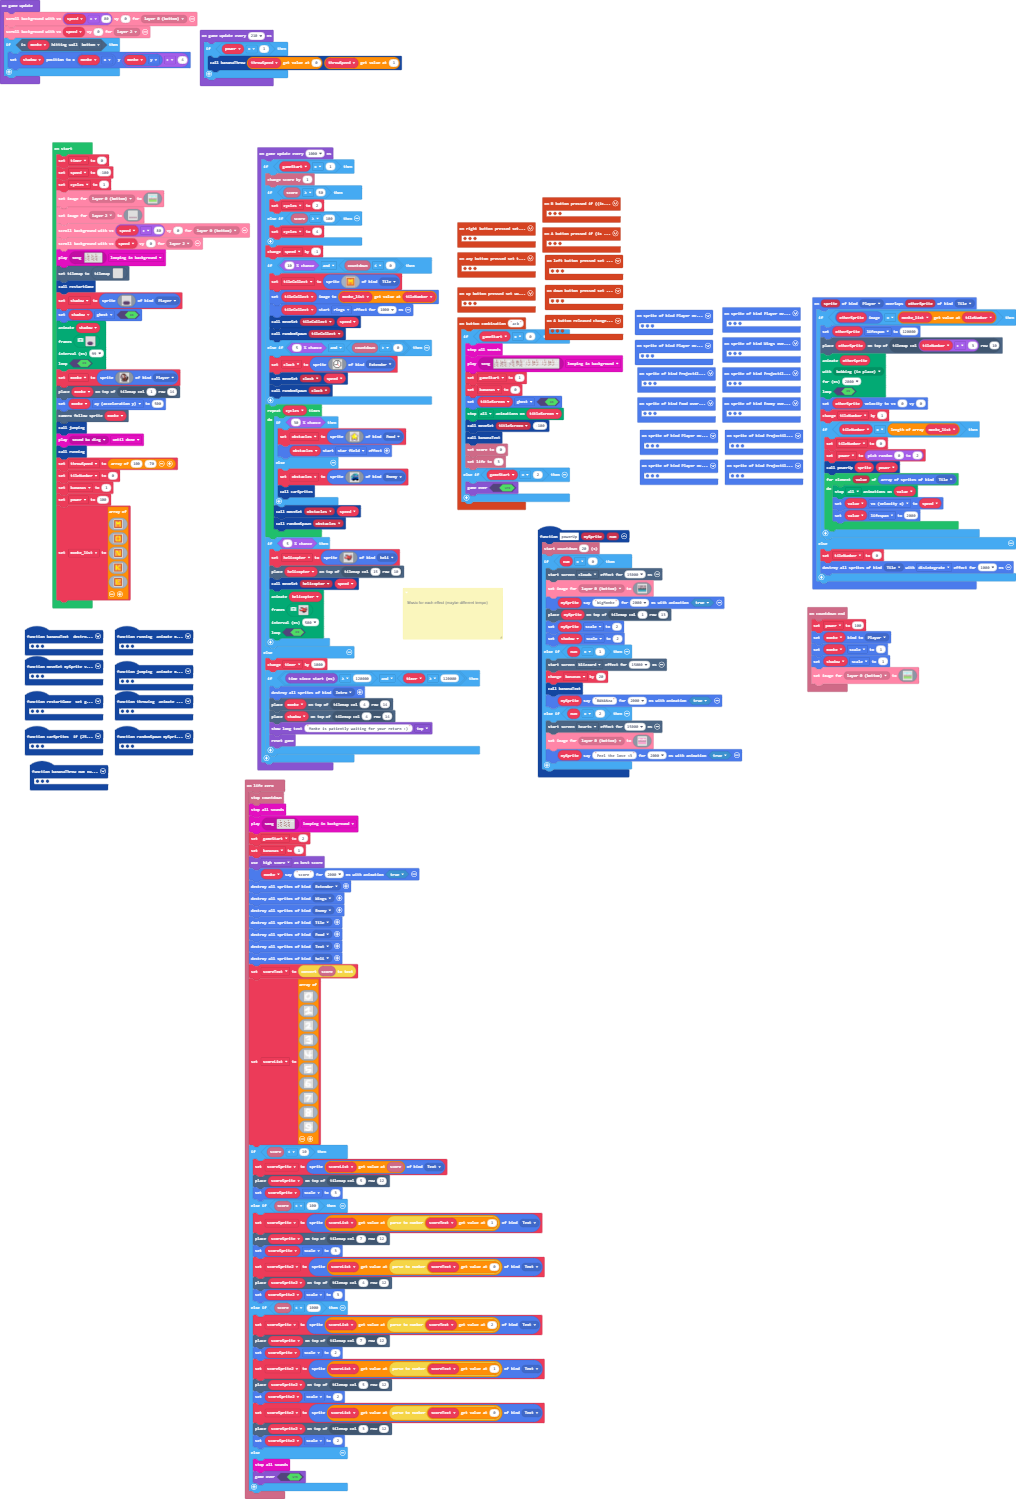
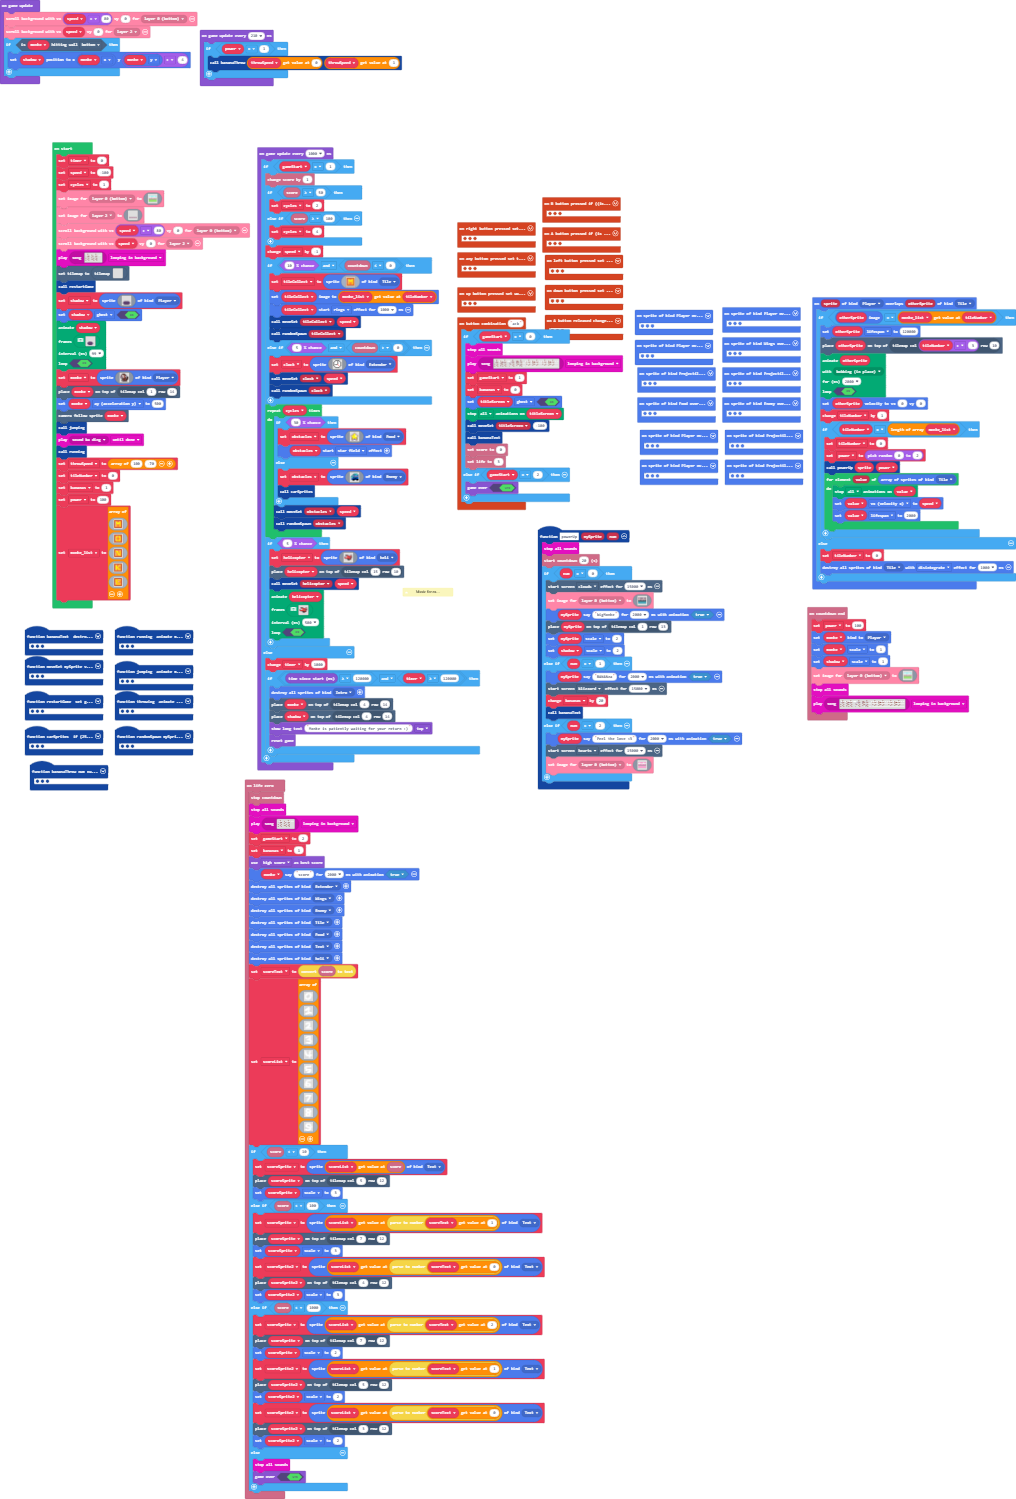
Update main.blocks, main.ts

Changed region(s): [[0.3967, 0.3376, 0.7323, 0.5524], [0.7933, 0.4296, 0.9764, 0.491]]

diff --git a/main.ts b/main.ts
@@ -800,6 +800,8 @@ info.onCountdownEnd(function () {
         7777777777777777777777777777777777777777777777777777777777777777777777777777777777777777777777777777777777777777777777777777777777777777777777777777777777777777
         7777777777777777777777777777777777777777777777777777777777777777777777777777777777777777777777777777777777777777777777777777777777777777777777777777777777777777
         `)
+    music.stopAllSounds()
+    music.play(music.createSong(assets.song`in game`), music.PlaybackMode.LoopingInBackground)
 })
 sprites.onOverlap(SpriteKind.Projectile, SpriteKind.Intro, function (sprite, otherSprite) {
     otherSprite.startEffect(effects.confetti, 100)
@@ -882,6 +884,7 @@ controller.down.onEvent(ControllerButtonEvent.Pressed, function () {
     shadow.y = 252
 })
 function powerUp (mySprite: Sprite, num: number) {
+    music.stopAllSounds()
     info.startCountdown(20)
     if (num == 0) {
         effects.clouds.startScreenEffect(15000)
@@ -1012,11 +1015,12 @@ function powerUp (mySprite: Sprite, num: number) {
         mySprite.scale = 2
         shadow.scale = 2
     } else if (num == 1) {
+        mySprite.sayText("BANANza", 2000, true)
         effects.blizzard.startScreenEffect(15000)
         bananas += 20
         bananaText()
-        mySprite.sayText("BANANza", 2000, true)
     } else if (num == 2) {
+        mySprite.sayText("Peel the love <3", 2000, true)
         effects.hearts.startScreenEffect(15000)
         scroller.setLayerImage(scroller.BackgroundLayer.Layer0, img`
             3333333333333333333333333333333333333333333333333333333333333333333333333333333333333333333333333333333333333333333333333333333333333333333333333333333333333333
@@ -1140,7 +1144,6 @@ function powerUp (mySprite: Sprite, num: number) {
             3333333333333333333333333333333333333333333333333333333333333333333333333333333333333333333333333333333333333333333333333333333333333333333333333333333333333333
             3333333333333333333333333333333333333333333333333333333333333333333333333333333333333333333333333333333333333333333333333333333333333333333333333333333333333333
             `)
-        mySprite.sayText("Peel the love <3", 2000, true)
     }
 }
 controller.right.onEvent(ControllerButtonEvent.Pressed, function () {
